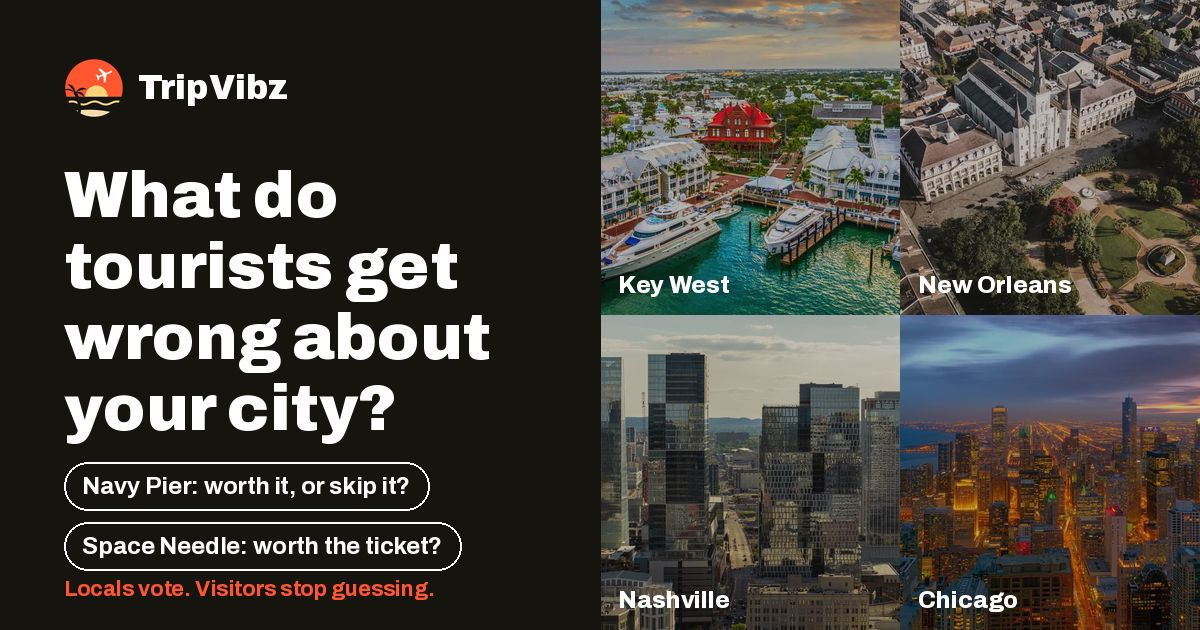
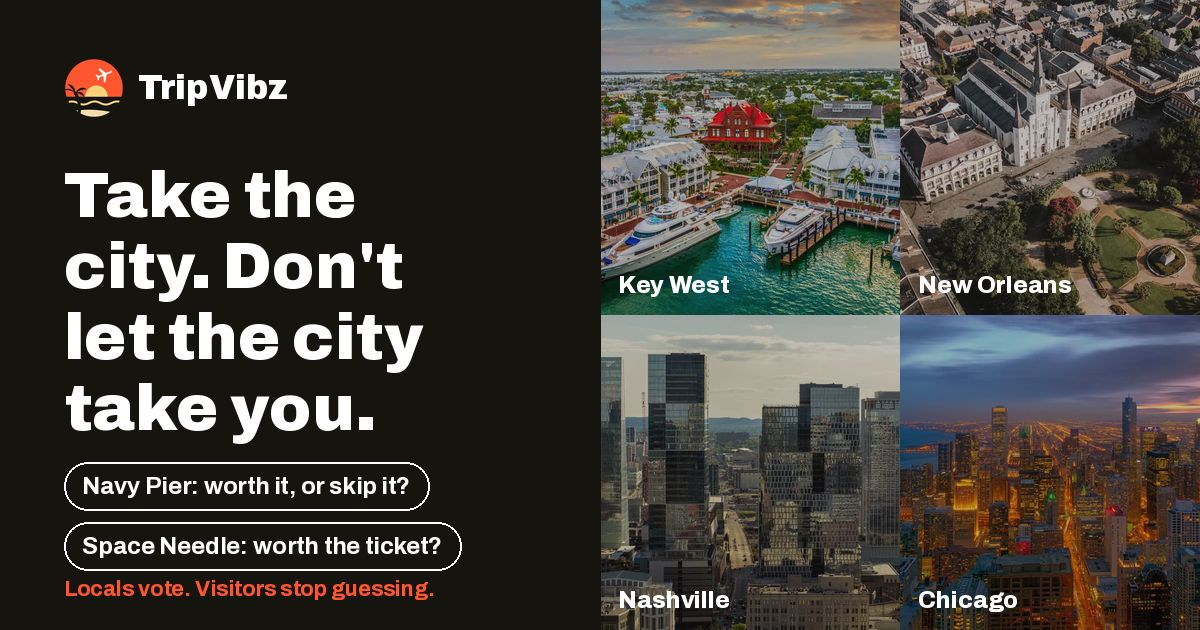
Home tagline: Take the city. Don't let the city take you.
Claude-Session: https://claude.ai/code/session_01GjEXx3jJxRu7THZ3ZZNF5z

Changed region(s): [[0.0308, 0.2714, 0.4317, 0.7238]]

diff --git a/index.html b/index.html
@@ -106,10 +106,10 @@
 <main>
   <div class="wrap">
     <section class="hero">
-      <div class="eyebrow">For people who live there</div>
-      <h1>What do tourists get wrong about your city?</h1>
-      <p class="lede">Say it once and the people planning a trip will actually read it.
-        One sentence is enough.</p>
+      <div class="eyebrow">What locals know that guidebooks don't</div>
+      <h1>Take the city. Don't let the city take you.</h1>
+      <p class="lede">Locals tell you what to skip, when not to come, and what's actually
+        worth it. Live somewhere? One sentence is enough.</p>
     </section>
 
     <div class="stats" id="stats"></div>

diff --git a/scripts/og_cards.py b/scripts/og_cards.py
@@ -195,7 +195,7 @@ def card_home(cities, photos, leads):
     mark = Image.open(MARK).convert("RGBA").resize((60, 60), Image.LANCZOS)
     base.paste(mark, (PAD, PAD - 6), mark)
     d.text((PAD + 74, PAD + 24), "TripVibz", font=font(34, 900), fill=WHITE, anchor="lm")
-    y = headline(d, "What do tourists get wrong about your city?", PAD + 96, max_w=600 - PAD - 30, lines=4, sizes=(64, 58, 54, 50))
+    y = headline(d, "Take the city. Don't let the city take you.", PAD + 96, max_w=600 - PAD - 30, lines=4, sizes=(64, 58, 54, 50))
     # Two real lead questions as poll chips.
     qf = font(24, 700)
     y = max(y + 18, 420)
